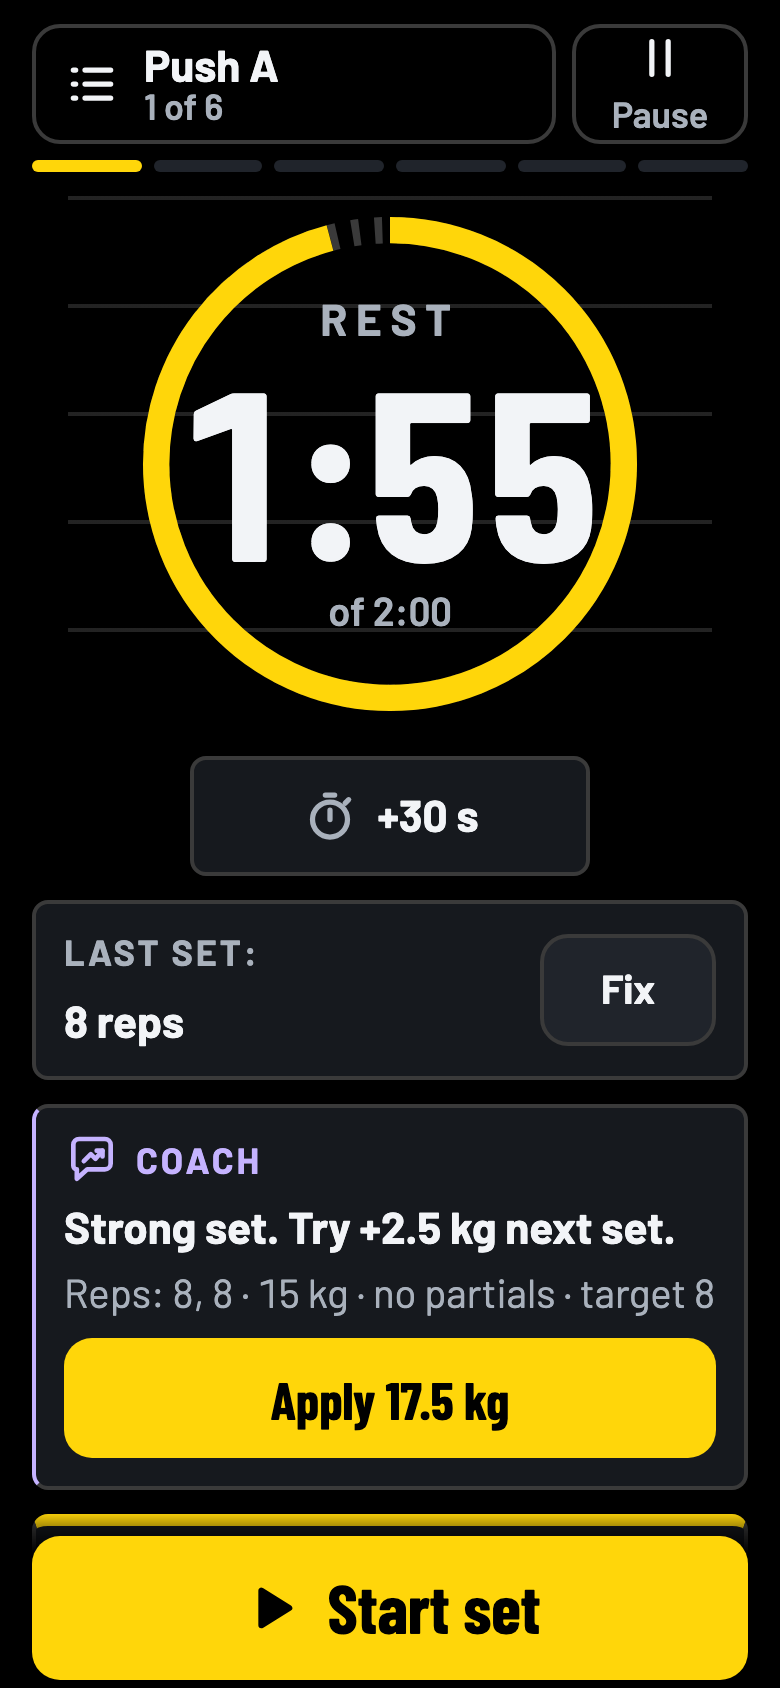
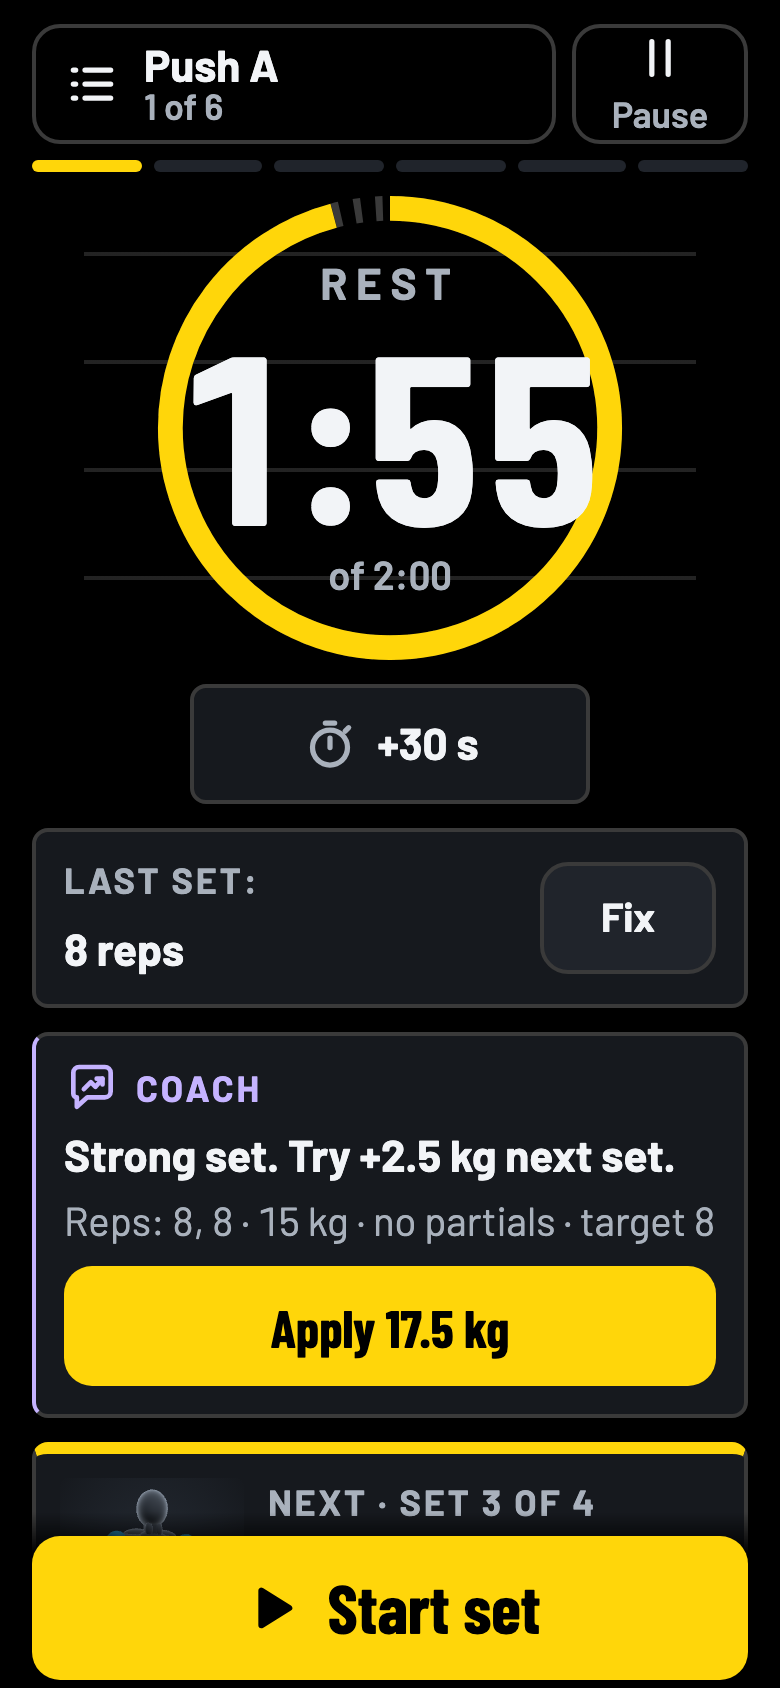
Rest with a coach Apply: smaller ring and tighter block margin so Apply clears Start set on Linux font metrics too (CI)

Changed region(s): [[0.0308, 0.0924, 0.9846, 0.9242]]

diff --git a/src/styles.css b/src/styles.css
@@ -1022,7 +1022,10 @@ h1 {
    the two filled presses never touch. The clock stays a main number (120px, inside the ring). */
 .rest.mood-track:has(.coach-tip:not([hidden]) :is(.coach-apply, .coach-applied):not([hidden]))
   .rest-timer {
-  width: min(264px, calc(100% - 58px));
+  /* 248px still holds the 120px "+0:15"; the tighter block margin keeps the margin above Start
+     set even where the coach text sets a line taller (Linux CI). */
+  width: min(248px, calc(100% - 58px));
+  margin-block: -8px;
 }
 
 .rest.mood-track:has(.coach-tip:not([hidden]) :is(.coach-apply, .coach-applied):not([hidden]))
